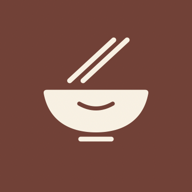
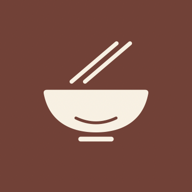
调整家宴标识线条与应用图标

Changed region(s): [[0.3438, 0.1875, 0.6875, 0.4375], [0.4062, 0.5312, 0.5938, 0.5938], [0.375, 0.5938, 0.625, 0.6562]]

diff --git a/src/views.js b/src/views.js
@@ -26,7 +26,7 @@ const icon = (name) => {
  return `<svg viewBox="0 0 24 24" fill="none" stroke="currentColor" stroke-width="1.7" stroke-linecap="round" stroke-linejoin="round" aria-hidden="true">${paths[name] || ''}</svg>`;
 };
 const paperMenuIcon = `<svg class="paper-menu-icon" viewBox="0 0 24 27" aria-hidden="true" focusable="false"><rect x="2.5" y="3.5" width="17" height="21" rx="2" fill="#e9d5c0" transform="rotate(-7 11 14)"/><path d="M6 2.5h14a1 1 0 0 1 1 1v19a1 1 0 0 1-1 1H6a1 1 0 0 1-1-1v-19a1 1 0 0 1 1-1Z" fill="#fffaf2" stroke="#ba846a" stroke-width="1.1"/><path d="M8.5 8h9M8.5 11.5h9M8.5 15h6" stroke="#b7795d" stroke-width="1.2" stroke-linecap="round"/><path d="M8.5 19.1h4" stroke="#d4ad91" stroke-width="1.2" stroke-linecap="round"/></svg>`;
-const logo = `<span class="brand-mark" aria-label="家宴标志"><svg viewBox="0 0 40 40" aria-hidden="true"><path class="brand-bowl" d="M9.8 18.7h20.4q.9 0 .7.9c-1 5.2-4.9 8-10.9 8s-9.9-2.8-10.9-8q-.2-.9.7-.9Z"/><path class="brand-foot" d="M16.8 29h6.4"/><path class="brand-smile" d="M16.5 21.6q3.5 2 7 0"/><path class="brand-chopsticks" d="m14.5 16.8 9.2-8.5m-6.4 8.5 9.2-8.5"/></svg></span>`;
+const logo = `<span class="brand-mark" aria-label="家宴标志"><svg viewBox="0 0 40 40" aria-hidden="true"><path class="brand-bowl" d="M9.8 18.7h20.4q.9 0 .7.9c-1 5.2-4.9 8-10.9 8s-9.9-2.8-10.9-8q-.2-.9.7-.9Z"/><path class="brand-foot" d="M16.8 29h6.4"/><path class="brand-smile" d="M15.8 24.6q4.2 2 8.4 0"/><path class="brand-chopsticks" d="m14.9 17 9.4-8m-6.6 8 9.4-8"/></svg></span>`;
 const categoryIcon = {'全部':'all','家常菜':'hot','清爽凉菜':'cold','暖心汤羹':'soup'};
 const spiceLabels = ['不辣', '微辣', '中辣', '特辣'];
 const spiceBadge = d => d.spice_level ? `<span class="spice-badge" role="img" aria-label="${spiceLabels[d.spice_level]}" title="${spiceLabels[d.spice_level]}">${'<span aria-hidden="true">🌶</span>'.repeat(d.spice_level)}</span>` : '';

diff --git a/index.html b/index.html
@@ -40,7 +40,7 @@
   <script>setTimeout(function(){var el=document.getElementById('launch');if(el&&!el.classList.contains('is-finished'))el.classList.add('has-error')},15000);</script>
   <main class="presentation">
     <aside class="intro" aria-label="设计说明">
-      <div class="brand"><span class="brand-mark" aria-label="家宴标志"><svg viewBox="0 0 40 40" aria-hidden="true"><path class="brand-bowl" d="M9.8 18.7h20.4q.9 0 .7.9c-1 5.2-4.9 8-10.9 8s-9.9-2.8-10.9-8q-.2-.9.7-.9Z"/><path class="brand-foot" d="M16.8 29h6.4"/><path class="brand-smile" d="M16.5 21.6q3.5 2 7 0"/><path class="brand-chopsticks" d="m14.5 16.8 9.2-8.5m-6.4 8.5 9.2-8.5"/></svg></span><span>家宴 <small>家的味道</small></span></div>
+      <div class="brand"><span class="brand-mark" aria-label="家宴标志"><svg viewBox="0 0 40 40" aria-hidden="true"><path class="brand-bowl" d="M9.8 18.7h20.4q.9 0 .7.9c-1 5.2-4.9 8-10.9 8s-9.9-2.8-10.9-8q-.2-.9.7-.9Z"/><path class="brand-foot" d="M16.8 29h6.4"/><path class="brand-smile" d="M15.8 24.6q4.2 2 8.4 0"/><path class="brand-chopsticks" d="m14.9 17 9.4-8m-6.6 8 9.4-8"/></svg></span><span>家宴 <small>家的味道</small></span></div>
       <div class="intro-main"><p class="eyebrow"><span></span> 为每一顿家常饭</p><h1>把喜欢的菜，<br><em>端上家的餐桌。</em></h1><p class="intro-copy">今天想吃什么？<br>一起点菜，把平凡的一餐变成值得期待的小事。</p><div class="intro-line"></div><div class="steps"><span><b>01</b> 挑选喜欢的菜</span><i>—</i><span><b>02</b> 生成专属菜单</span></div></div>
       <div class="intro-footer"><span>为每一顿家常饭，留一点仪式感。</span><span>家宴 · 好好吃饭</span></div>
       <div class="intro-stamp" aria-hidden="true">好好<br>吃饭 <span>✳</span></div>

diff --git a/style.css b/style.css
@@ -580,8 +580,8 @@ button.filter[hidden]{display:none}
 .brand-mark svg,.top-brand .brand-mark svg{width:100%;height:100%;stroke:none}
 .brand-mark .brand-bowl{fill:currentColor}
 .brand-mark .brand-foot{fill:none;stroke:currentColor;stroke-width:1;stroke-linecap:round}
-.brand-mark .brand-smile{fill:none;stroke:#793e34;stroke-width:.85;stroke-linecap:round}
-.brand-mark .brand-chopsticks{fill:none;stroke:currentColor;stroke-width:1.05;stroke-linecap:round}
+.brand-mark .brand-smile{fill:none;stroke:#793e34;stroke-width:.6;stroke-linecap:round}
+.brand-mark .brand-chopsticks{fill:none;stroke:currentColor;stroke-width:.85;stroke-linecap:round}
 
 /* The invitation reads as a small part of the masthead. */
 .home-scroll .shared-entry{display:inline-flex;align-items:center;gap:5px;min-height:44px;padding:0 2px 0 10px;border:0;border-radius:0;background:transparent;color:#9a5b48;font-size:12px;font-weight:600}

diff --git a/sw.js b/sw.js
@@ -1,6 +1,6 @@
 // 家宴 Service Worker：预缓存全部静态资源，离线也能打开。
 // 更新页面内容后，把下面 VERSION 加一（如 'v2'）即可让所有客户端换用新缓存。
-const VERSION = 'v110';
+const VERSION = 'v112';
 const CACHE = `jiayan-${VERSION}`;
 // 本机开发不使用离线缓存，已有旧 Worker 更新后也会切换到网络。
 const LOCAL_DEV = ['localhost', '127.0.0.1', '[::1]'].includes(self.location.hostname);
